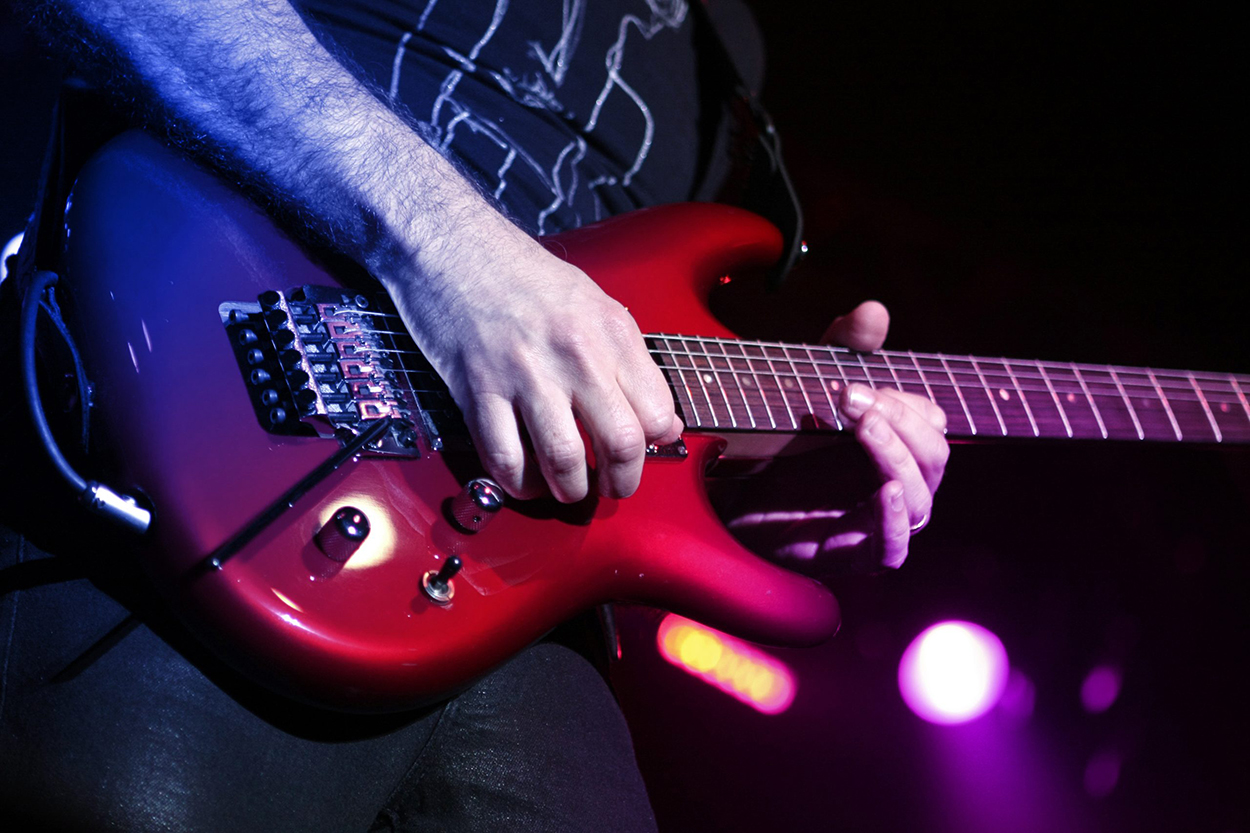
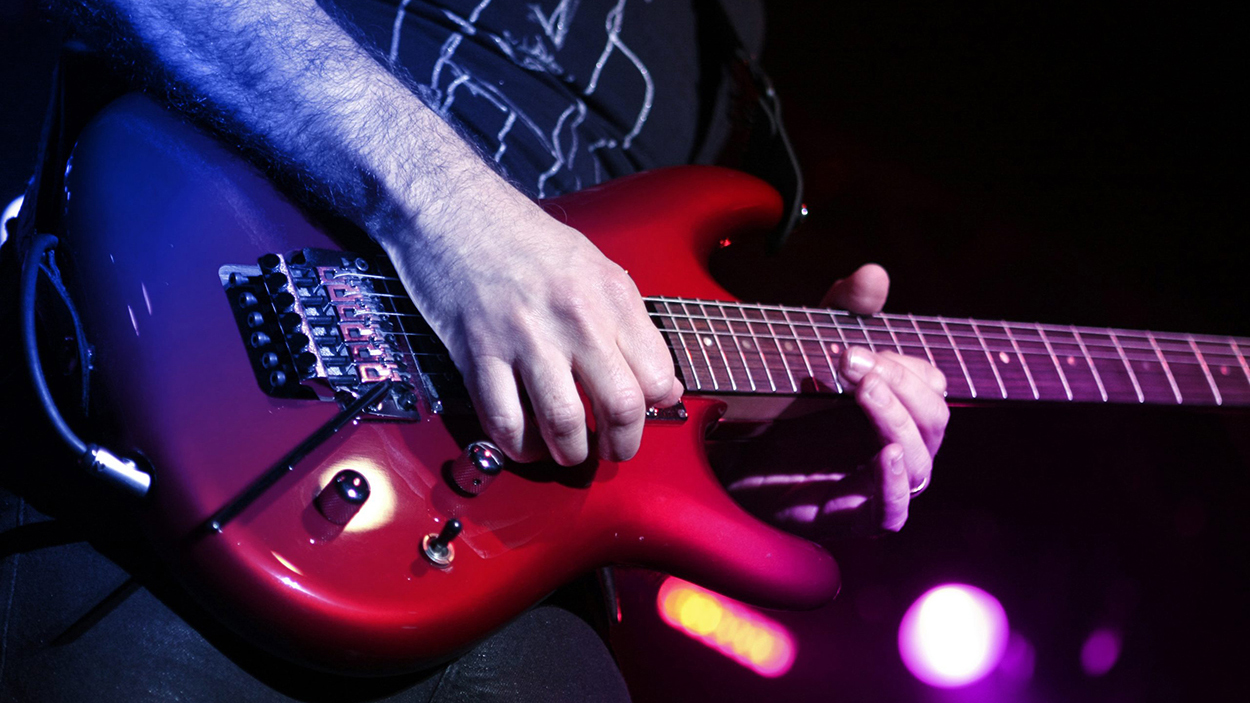
cambios

diff --git a/css/style.css b/css/style.css
@@ -1,5 +1,29 @@
 .root{
     margin: 0;
     padding: 0;
+}
+body{
+    background-color: rgb(0, 0, 0);
+}
+#logo{
+    width: 250px;
+    margin: 5% 0;
+}
 
+h2{
+    color: #886a4a;
+}
+.menu_nav{
+    text-align: right;
+}
+.card_comparacion{
+    padding: auto 5%;
+}
+.card{
+    margin: 0 2em;;
+}
+.slide{
+    margin: auto 10%;
+    width: 80%;
+    height: 703px;
 }

diff --git a/index.php b/index.php
@@ -1,5 +1,5 @@
 <!doctype html>
-<html lang="en">
+<html lang="es">
   <head>
     <!-- Required meta tags -->
     <meta charset="utf-8">
@@ -14,129 +14,89 @@
   </head>
   <body>
     <!-- header -->
-    <div class="container">
-      <div class="container">
-        <div class="row">
-          <div class="col">
-            <img src="img/guitarview350.png" alt="">
-          </div>
-          <div class="col">
-            <h1>buscador</h1>
-          </div>
-          <div class="col">
-            <h1>Espacio para menu</h1>
-          </div>
-        </div>
-      </div>
-    </div>
+            <!-- navbar -->
+            <nav class="navbar navbar-expand-lg grid">
+                <div class="container-fluid">
+                    <a class="navbar-brand" href="#"><img src="img/guitarview350.png" alt="logo"></a>
+                    <button class="navbar-toggler" type="button" data-bs-toggle="collapse" data-bs-target="#navbarNavDropdown" aria-controls="navbarNavDropdown" aria-expanded="false" aria-label="Toggle navigation">
+                    </button>
+
+                    <div class="collapse navbar-collapse nav justify-content-end" id="navbarNavDropdown">
+                        <ul class="navbar-nav">
+                            
+                            <li class="nav-item">
+                                <input class="btn btn-outline-secondary" type="button" value="Saber mas sobre guitarras" onclick="search()">
+                            </li>
+                                                        
+                        </ul>
+                    </div>
+                </div>
+            </nav>
+            <!-- fin navbar -->
     
     <!-- slidebar -->
-
-    <div class="container">
-      <div id="carouselExampleDark" class="carousel carousel-dark slide" data-bs-ride="carousel">
-        <div class="carousel-indicators">
-          <button type="button" data-bs-target="#carouselExampleDark" data-bs-slide-to="0" class="active" aria-current="true" aria-label="Slide 1"></button>
-          <button type="button" data-bs-target="#carouselExampleDark" data-bs-slide-to="1" aria-label="Slide 2"></button>
-          <button type="button" data-bs-target="#carouselExampleDark" data-bs-slide-to="2" aria-label="Slide 3"></button>
-          <button type="button" data-bs-target="#carouselExampleDark" data-bs-slide-to="3" aria-label="Slide 3"></button>
-          <button type="button" data-bs-target="#carouselExampleDark" data-bs-slide-to="4" aria-label="Slide 4"></button>
+    <div id="carouselExampleSlidesOnly" class="carousel slide" data-bs-ride="carousel">
+      <div class="carousel-inner">
+        <div class="carousel-item active">
+          <img src="img/01.jpg" class="d-block w-100" alt="img_slider">
         </div>
-
-        <div class="carousel-inner">
-          <div  class="carousel-item active" data-bs-interval="10000">
-            <img src="img/01.jpg" class="d-block w-30 carousel" alt="...">
-            <div class="carousel-caption d-none d-md-block" >
-              <h5>First slide label</h5>
-              <p>Some representative placeholder content for the first slide.</p>
-            </div>
-          </div>
-          <div class="carousel-item" data-bs-interval="2000">
-            <img src="img/02.jpg" class="d-block w-30 carousel" alt="...">
-            <div class="carousel-caption d-none d-md-block">
-              <h5>Second slide label</h5>
-              <p>Some representative placeholder content for the second slide.</p>
-            </div>
-          </div>
-          <div class="carousel-item">
-            <img src="img/03.jpg" class="d-block w-20 carousel" alt="...">
-            <div class="carousel-caption d-none d-md-block">
-              <h5>Third slide label</h5>
-              <p>Some representative placeholder content for the third slide.</p>
-            </div>
-          </div>
-          <div class="carousel-item" data-bs-interval="2000">
-            <img src="img/04.jpg" class="d-block w-30 carousel" alt="...">
-            <div class="carousel-caption d-none d-md-block">
-              <h5>Second slide label</h5>
-              <p>Some representative placeholder content for the second slide.</p>
-            </div>
-          </div>
-          <div class="carousel-item">
-            <img src="img/05.jpg" class="d-block w-30 carousel" alt="...">
-            <div class="carousel-caption d-none d-md-block">
-              <h5>Third slide label</h5>
-              <p>Some representative placeholder content for the third slide.</p>
-            </div>
-          </div>
+        <div class="carousel-item">
+          <img src="img/02.jpg" class="d-block w-100" alt="img_slider">
         </div>
-
-        <button class="carousel-control-prev" type="button" data-bs-target="#carouselExampleDark" data-bs-slide="prev">
-          <span class="carousel-control-prev-icon" aria-hidden="true"></span>
-          <span class="visually-hidden">Previous</span>
-        </button>
-        <button class="carousel-control-next" type="button" data-bs-target="#carouselExampleDark" data-bs-slide="next">
-          <span class="carousel-control-next-icon" aria-hidden="true"></span>
-          <span class="visually-hidden">Next</span>
-        </button>
+        <div class="carousel-item">
+          <img src="img/03.jpg" class="d-block w-100" alt="img_slider">
+        </div>
+        <div class="carousel-item">
+          <img src="img/04.jpg" class="d-block w-100" alt="img_slider">
+        </div>
+        <div class="carousel-item">
+          <img src="img/05.jpg" class="d-block w-100" alt="img_slider">
+        </div>
       </div>
     </div>
     
-    <!-- buscadores -->
-    <br>
-    <div class="container">
-      <div class="container">
-        <div class="row">
-          <div class="col col-6">
-            <div class="card" style="width: 18rem;"><br>
-              <div class="container col-12">
-                <input type="text" placeholder="Buscar">
-              </div>              
-              <div class="card-body">
-                <h5 class="card-title">Card title</h5>
-                <p class="card-text">Some quick example text to build on the card title and make up the bulk of the card's content.</p>
-                <a href="#" class="btn btn-primary">Go somewhere</a>
-              </div>
-            </div>
-          </div>
-          <div class="col col-6">
-            <div class="card" style="width: 18rem;"><br>
-              <div class="container col-12">
-                <input type="text" placeholder="Buscar">
-              </div>
-              <div class="card-body">
-                <h5 class="card-title">Card title</h5>
-                <p class="card-text">Some quick example text to build on the card title and make up the bulk of the card's content.</p>
-                <a href="#" class="btn btn-primary">Go somewhere</a>
-              </div>
-            </div>
-          </div>
-        </div>
+    <!-- cards -->
+    <div  class="row card_comparacion d-flex justify-content-center">
+      
+    <div class="card col col-6" style="width: 25rem;">
+      <img src="https://external-content.duckduckgo.com/iu/?u=http%3A%2F%2Fbp2.blogger.com%2F_0zKK5jSvkHY%2FSD6u8k7gPoI%2FAAAAAAAAAWE%2FibpmBgvm5zI%2Fw1200-h630-p-k-no-nu%2Fstratocaster-25-aniversario.jpg&f=1&nofb=1" class="card-img-top" alt="...">
+      <div class="card-body">
+        <h5 class="card-title">Fender Stratocaster 25 Aniversario</h5>
+        <p class="card-text">Este modelo de 1979, que conmemora los 25 años de producción de la Strato, lleva una inscripción de aniversario en el cuerpo y clavijas de lujo. </p>
+      </div>
+      <ul class="list-group list-group-flush">
+        <li class="list-group-item">Cuerdas: 6</li>
+        <li class="list-group-item">A second item</li>
+        <li class="list-group-item">A third item</li>
+      </ul>
+      <div class="card-body">
+        <a href="#" class="card-link">Card link</a>
+        <a href="#" class="card-link">Another link</a>
       </div>
     </div>
 
-
-
-
-
-  <!-- prueba para mostrar commit a Paulo -->
-
-
+    <div class="card col col-6" style="width: 25rem;">
+      <img src="https://external-content.duckduckgo.com/iu/?u=http%3A%2F%2F2.bp.blogspot.com%2F-Tqqn3dgYfKw%2FUGaNMNVUbDI%2FAAAAAAAAAB8%2Fg8G8JnEx_4Q%2Fs400%2FGibson-ES0335-1964.jpeg&f=1&nofb=1" class="card-img-top" alt="...">
+      <div class="card-body">
+        <h5 class="card-title">Gibson ES0335 belongs to Eric Clapton</h5>
+        <p class="card-text">En 1964 con precios de $ 847.500. Eric Clapton usa esta guitarra desde 1964, pero rara vez se usa después de que la guitarra se ofrece a un precio de $ 847,500 en una subasta. Este es el precio más alto jamás subastado en una guitarra Gibson en ese momento. </p>
+      </div>
+      <ul class="list-group list-group-flush">
+        <li class="list-group-item">Cuerdas: 6</li>
+        <li class="list-group-item">A second item</li>
+        <li class="list-group-item">A third item</li>
+      </ul>
+      <div class="card-body">
+        <a href="#" class="card-link">Card link</a>
+        <a href="#" class="card-link">Another link</a>
+      </div>
+    </div>
+    </div>
 
     <!-- Option 1: Bootstrap Bundle with Popper -->
     <script src="js/bootstrap.bundle.min.js" integrity="sha384-ka7Sk0Gln4gmtz2MlQnikT1wXgYsOg+OMhuP+IlRH9sENBO0LRn5q+8nbTov4+1p" crossorigin="anonymous"></script>
 
    
-
     <!-- Option 2: Separate Popper and Bootstrap JS -->
     <!--
     <script src="https://cdn.jsdelivr.net/npm/@popperjs/core@2.10.2/dist/umd/popper.min.js" integrity="sha384-7+zCNj/IqJ95wo16oMtfsKbZ9ccEh31eOz1HGyDuCQ6wgnyJNSYdrPa03rtR1zdB" crossorigin="anonymous"></script>
